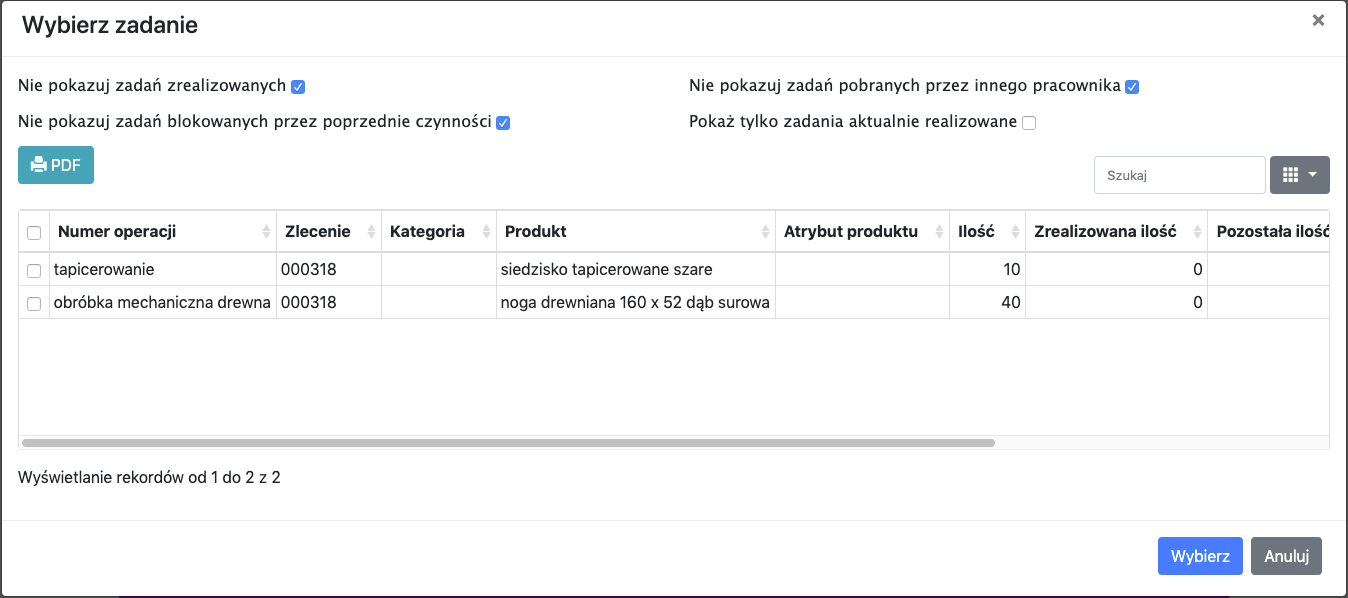
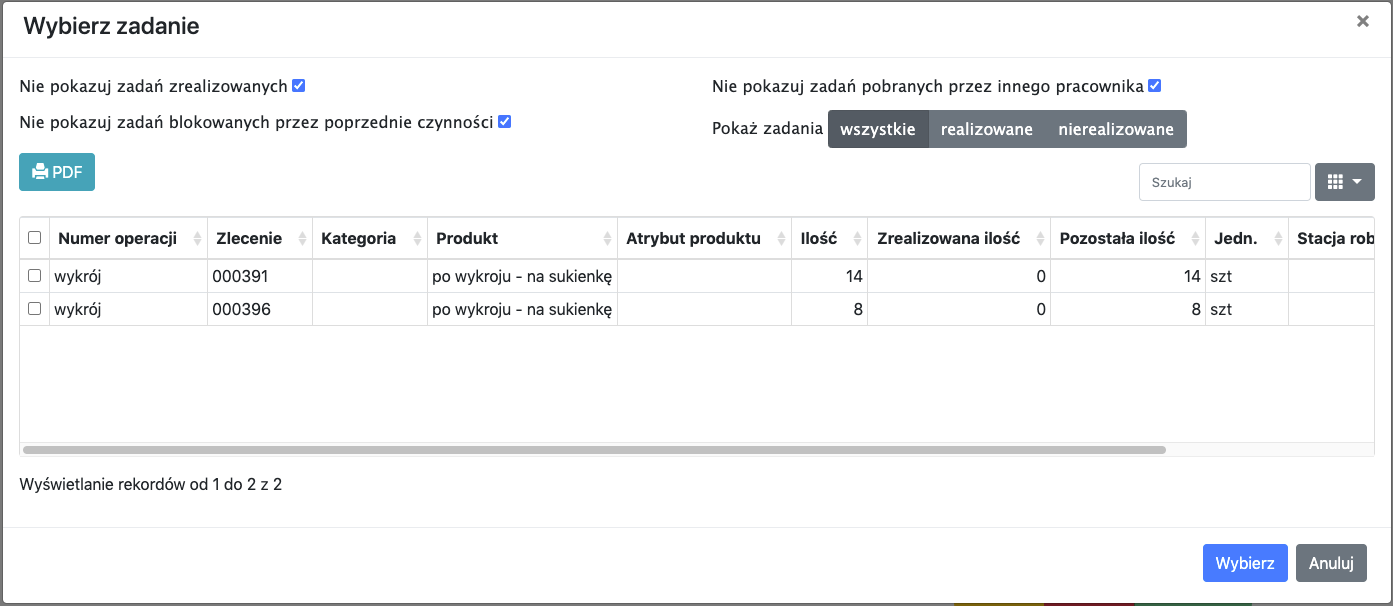
dashboard

diff --git a/pages/przykladowe-procesy/zlecenia-z-wykorzystaniem-dashboardu.md b/pages/przykladowe-procesy/zlecenia-z-wykorzystaniem-dashboardu.md
@@ -1,0 +1,128 @@
+---
+title: "Zarządzanie zleceniami produkcyjnymi z wykorzystaniem dashboardu"
+permalink: zlecenia-z-wykorzystaniem-dashboardu.html 
+---
+
+Stworzyliśmy dashboard po to, by łatwiej było zaprzyjaźnić się z qcadoo. Po to, by móc szybko zacząć pracę, bez konieczności przeczytania całej dokumentacji i wielogodzinnego definiowania danych początkowych. Dzięki dashboardowi możesz w pół godziny po pierwszym zalogowaniu się zacząć prawdziwą pracę w qcadoo. Nie wierzysz? Po przeczytaniu tego rozdziału dokumentacji - zmienisz zdanie.
+
+Pola Dobroń prowadzi firmę Polanka. Zajmuje się szyciem ubrań. Chciałaby ewidencjonować to co zostało wyprodukowane wraz z materiałami, które w procesie produkcyjnym zużyto. Zależy jej na ustaleniu kosztów materiałowych produkcji.
+
+Zaczyna pracę w qcadoo. Loguje się po raz pierwszy i widzi:
+
+{% include lightbox.html file="zleceniaZDashboarduStart.png" alt="Dashboard - widok po pierwszym zalogowaniu" caption="Dashboard - widok po pierwszym zalogowaniu" %}
+
+Od czego zacząć? Od szybkiej konfiguracji. Nie potrzeba wiele:
+
+1. <span style="color:grey">zdefiniowanie magazynów</span> --> wchodzi do **Magazyn > Magazyny** i wprowadza dwa: osobny dla składowania surowców, osobny dla wyrobów gotowych:
+
+{% include lightbox.html file="zleceniaZDashboarduMagazyny.png" alt="Zdefiniowane magazyny" caption="Zdefiniowane magazyny" %}
+
+{:start="2"}
+2. <span style="color:grey">zdefiniowanie operacji</span> (wystarczy jedna ogólna czynność - nie na planowaniu każdej operacji zależy Poli, zatem wystarczy zlecenie zbiorczo raportowane z jedną operacją w drzewie technologii) --> wchodzi do **Technologie > Operacje** i wprowadza operację: produkcja (podaje tylko numer i nazwę, resztę danych pozostawia niewypełnione):
+
+{% include lightbox.html file="zleceniaZDashboarduOperacja.png" alt="Zdefiniowana operacja" caption="Zdefiniowana operacja" %}
+
+{:start="3"}
+3. <span style="color:grey">ustawienie parametrów dashboardu</span> --> wchodzi do **Administracja > Parametry > Dashboard** i ustawia zdefiniowane w krokach poprzednich magazyny i operację:
+
+{% include lightbox.html file="zleceniaZDashboarduParametryDashboardu.png" alt="Ustawione parametry dashboardu" caption="Ustawione parametry dashboardu" %}
+
+<span style="color:red">W zasadzie z wymaganych danych początkowych to byłoby wszystko</span>. Pola wie natomiast, że będzie chciała rejestrować produkcję poprzez terminal i przyjmować dostawy, zatem definiuje jeszcze dwie rzeczy:
+
+{:start="4"}
+4. <span style="color:grey">zdefiniowanie pracownika</span> - Pola pracuje sama, więc wprowadza tylko swoje dane. Wchodzi w **Pracownicy > Pracownicy** i dodaje:
+
+{% include lightbox.html file="zleceniaZDashboarduPracownik.png" alt="Zdefiniowany pracownik" caption="Zdefiniowany pracownik" %}
+
+i przypisuje go do swojego użytkownika (to jest możliwe dzięki temu, że Pola korzysta z użytkownika o uprawnieniach Admina). W tym celu wchodzi w **Administracja > Użytkownicy**, wchodzi w szczegóły swojego użytkownika, przechodzi do zakładki _Pracownik_ i wybiera właściwego z listy:
+
+{% include lightbox.html file="zleceniaZDashboarduPracownikUzytkownik.png" alt="Przypisanie pracownika do użytkownika" caption="Przypisanie pracownika do użytkownika" %}
+
+{% include callout.html content="Do terminala loguje się pracownik, a nie użytkownik. Dzięki temu ograniczamy konieczne do wykupienia licencje" type="warning" %}
+
+{:start="5"}
+5. **zdefiniowanie dostawców** - aby można było ewidencjonować w qcadoo dostawy (i przyjmować dzięki nim surowce na stan) konieczne jest wprowadzenie listy firm, z którymi współpracujemy. Pola wprowadza na początek jednego - z którym współpracuje najczęściej. Wchodzi w tym celu w **Podstawowe > Firmy** i dodaje następujące dane:
+
+{% include lightbox.html file="zleceniaZDashboarduFirmy.png" alt="Zdefiniowany dostawca" caption="Zdefiniowany dostawca" %}
+
+Parametry ustawione. Czas rozpocząć zarządzanie produkcją!
+
+Pola przechodzi do dashboardu (wybierając {% include inline_image.html file="przyciskQcadoo.png" alt="Przycisk qcadoo" %} **qcadoo** z lewej strony okna) i klika przycisk {% include inline_image.html file="przyciskDodajZlecenie.png" alt="Przycisk Dodaj zlecenie" %} **Dodaj zlecenie**:
+
+{% include lightbox.html file="zleceniaZDashboarduKrok1.png" alt="Dodawanie zlecenia z dashboardu - krok 1." caption="Dodawanie zlecenia z dashboardu - krok 1." %}
+
+Jako, że nie ma zdefiniowanego żadnego produktu, klika przycisk {% include inline_image.html file="przyciskZdefiniujNowyProdukt.png" alt="Przycisk Dodaj produkt" %} **Zdefiniuj nowy produkt** i wprowdza pierwszy produkt, który chciałaby zlecić:
+
+{% include lightbox.html file="zleceniaZDashboarduNowyWyrob.png" alt="Dodawanie zlecenia z dashboardu - definiowanie nowego wyrobu" caption="Dodawanie zlecenia z dashboardu - definiowanie nowego wyrobu" %}
+
+Po kliknięciu przycisku {% include inline_image.html file="przyciskZapiszDashboard.png" alt="Przycisk zapisz" %} **Zapisz** uzupełnia ilość do wyprodukowania. Mogłaby też zostawić dodatkowe informacje w polu Opis - ale Pola nie ma takiej potrzeby:
+
+{% include lightbox.html file="zleceniaZDashboarduKrok1Reszta.png" alt="Dodawanie zlecenia z dashboardu - uzupełnienie niezbędnych danych w kroku 1." caption="Dodawanie zlecenia z dashboardu - uzupełnienie niezbędnych danych w kroku 1." %}
+
+Przechodzi do kolejnego kroku, klikając przycisk {% include inline_image.html file="przyciskDalejDashboard.png" alt="Przycisk Dalej" %} **Dalej**. Czas określić gdzie i kiedy ma być realizowana produkcja. qcadoo podpowiedziało zarówno linię produkcyjną jak i zakres dat:
+
+{% include lightbox.html file="zleceniaZDashboarduKrok2.png" alt="Dodawanie zlecenia z dashboardu - krok 2." caption="Dodawanie zlecenia z dashboardu - krok 2." %}
+
+{% include callout.html content="Linia produkcyjna rozumiana jest jako miejsce wykonania danego zlecenia. Jeśli chcesz wprowadzić ich więcej i przypisać to zlecenie do innej linii - kliknij przycisk **Dodaj linię produkcyjną** i ją zdefiniuj." type="warning" %}
+
+Pola zmienia datę zakończenia na jutrzejszą i przechodzi Dalej. Krok 3. to określenie z jakich surowców produkcja jest wykonywana. Pola klika {% include inline_image.html file="przyciskDodajSurowiec.png" alt="Przycisk Dodaj surowiec" %} **Dodaj surowiec** i przycisk {% include inline_image.html file="przyciskDodajDashboard.png" alt="Przycisk Plus" %} **Plus** w wierszu tabeli. Chce zdefiniować pierwszy z potrzebnych materiałów:
+
+{% include lightbox.html file="zleceniaZDashboarduKrok3.png" alt="Dodawanie zlecenia z dashboardu - krok 3." caption="Dodawanie zlecenia z dashboardu - krok 3." %}
+
+I tak postępuje dla wszystkich wykrzystywanych produktów, tworząc kompletną listę materiałów:
+
+{% include lightbox.html file="zleceniaZDashboarduKrok3Lista.png" alt="Dodawanie zlecenia z dashboardu - cała lista surowców definiowanych w kroku 3." caption="Dodawanie zlecenia z dashboardu - cała lista surowców definiowanych w kroku 3." %}
+
+Pola przechodzi {% include inline_image.html file="przyciskDalejDashboard.png" alt="Przycisk Dalej" %} **Dalej** i w ostatnim kroku upewnia się, czy wszystko wprowadziła jak należy. Nie pomyliła się, nie ma potrzeby wracać do poprzednich kroków, zatem klika {% include inline_image.html file="przyciskZapiszIAkceptuj.png" alt="Przycisk Zapisz i akceptuj" %} **Zapisz i akceptuj**. 
+
+{% include callout.html content="Wraz ze zleceniem utworzyła się też technologia produktu - zatem kolejne zlecanie do produkcji białej koszulki basic S będzie jeszcze szybsze." type="warning" %}
+
+Zlecenie się tworzy. Widoczne jest na dashboardzie.
+
+{% include lightbox.html file="zleceniaZDashboarduZlecenieOczekujace.png" alt="Utworzone zlecenie produkcyjne w sekcji Oczekujące" caption="Utworzone zlecenie produkcyjne w sekcji Oczekujące" %}
+
+Pola od razu chce produkować. Przeciąga zatem kafelek zlecenia do sekcji Realizowane:
+
+{% include lightbox.html file="zleceniaZDashboarduZlecenieRealizowane.png" alt="Utworzone zlecenie produkcyjne w sekcji Realizowane" caption="Utworzone zlecenie produkcyjne w sekcji Realizowane" %}
+
+I już teraz mogłaby zacząć raportować efekty wykonanej produkcji. Ale najpierw koniecznie trzeba przyjąć na stan potrzebne surowce. Pola wykorzysta do tego celu dostawy. Przechodzi do **Zaopatrzenie > Dostawy** i wprowadza dostawę podając w nagłówku informację o: dostawcy, magazynie na jakim produkty będą składowane oraz terminie dostawy:
+
+{% include lightbox.html file="zleceniaZDashboarduDostawaGlowna.png" alt="Nagłówek dostawy" caption="Nagłówek dostawy" %}
+
+{% include callout.html content="Dostępny stan magazynowy potrzebny jest do tego, by móc zaakceptować rejestrację produkcji. To wtedy tworzą się dokumenty RW. Jeśli dopiero testujesz qcadoo i nie chcesz zajść aż na sam koniec ścieżki - nie musisz robić tego kroku." type="warning" %}
+
+W zakładce Zamówione produkty dodaje wszystkie surowce, które zamówiła u tego dostawcy:
+
+{% include lightbox.html file="zleceniaZDashboarduDostawaZamowioneProdukty.png" alt="Zamówione produkty w dostawie" caption="Zamówione produkty w dostawie" %}
+
+I ją potwierdza, klikając {% include inline_image.html file="acceptIcon24.png" alt="Przycisk akceptuj" %} **Potwierdź**. Dostawa ta w rzeczywistości już została dostarczona, zatem Pola od razu przyjmuje produkty na stan klikając przycisk "Skopiuj produkty zamawiane do odebranych" {% include inline_image.html file="copyIcon24.png" alt="Przycisk Kopiuj" %} **Z ilością i ceną**:
+
+{% include lightbox.html file="zleceniaZDashboarduDostawaDostarczoneProdukty.png" alt="Dostarczone produkty w dostawie" caption="Dostarczone produkty w dostawie" %}
+
+Jako, że dostawca nie popełnił błędu i przysłał wszystko to co zostało zamówione, Pola nic nie poprawia i obiera dostawę klikając {% include inline_image.html file="acceptIcon24.png" alt="Przycisk akceptuj" %} **Odbierz**. W efekcie - na magazyn zostały przyjęte zasoby dokumentem PZ:
+
+{% include lightbox.html file="zleceniaZDashboarduZasoby.png" alt="Przyjęte na magazyn zasoby" caption="Przyjęte na magazyn zasoby" %}
+
+Stan magazynowy zapewniony. Pola wyprodukowała całą planowaną ilość i chciałaby zaraportować to co zużyła i to co zostało wytworzone. Wraca zatem na dashboard i kafelku zlecenia klika przycisk {% include inline_image.html file="przyciskPokazTerminal.png" alt="Przycisk Pokaż terminal" %} **Pokaż terminal** 
+
+{% include lightbox.html file="zleceniaZDashboarduTerminal.png" alt="Terminal rejestracji produkcji" caption="Terminal rejestracji produkcji" %}
+
+Podaje jaką ilość wyprodukowała (co powoduje wyliczenie ilości zużywanych produktów - na wszelki wypadek weryfikuje dane w zakładce Produkty wejściowe) i potwierdza przyciskiem {% include inline_image.html file="przyciskPotwierdzTerminal.png" alt="Przycisk Potwierdź" %} **Potwierdź**. Następnie przechodzi do **Rejestracja > Rejestracja produkcji** i akceptuje utworzony meldunek.
+
+{% include callout.html content="W parametrach terminala możesz ustawić, aby meldunek akceptował się od razu po potwierdzaniu z terminala." type="warning" %}
+
+I pora na ostatni krok, wieńczący proces w qcadoo. Pola wraca do dashboardu i przesuwa zlecenie do sekcji Gotowe.
+
+{% include lightbox.html file="zleceniaZDashboarduKoniec.png" alt="Dashboard - widok po ukończeniu procesu" caption="Dashboard - widok po ukończeniu procesu" %}
+
+Zlecenie zostało ukończone, dane z produkcji zarejestrowane, dokumenty magazynowe wystawione. Ile czasu zajęło Ci przejście całego procesu?
+
+--- 
+
+<span style="color:red">Na koniec ważna informacja!</span>
+<br/>
+<span style="color:red">Opisany przykład to podejście minimalistyczne. Pamiętaj, że qcadoo potrafi dużo więcej.</span>
+
+
+
+

diff --git a/pages/dashboard/dashboard-dodawanie-zlecen.md b/pages/dashboard/dashboard-dodawanie-zlecen.md
@@ -1,0 +1,66 @@
+---
+title: "Dodawanie zleceń z dashboardu"
+permalink: dashboard-dodawanie-zlecen.html 
+---
+
+Dodawanie zlecenia produkcyjnego z poziomu dashboardu jest dedykowane dla użytkowników z nieskomplikowaną produkcją. Jeśli interesuje Cię zlecenie jako całość, bez wyróżniania poszczególnych czynności do wykonania i nie potrzebujesz mechanizmów wyliczających czas trwania zlecenia, możesz w ten sposób tworzyć plany produkcyjne. 
+
+Tworząc ten sposób pracy myśleliśmy też o użytkownikach rozpoczynających przygotę z qcadoo. Chcesz zacząć szybko rejestrować produkcję i nie bardzo wiesz od czego zacząć? Docelowo planujesz rozpoznać dostępne w qcadoo funkcjonalności i pewnie z nich korzystać w pełni, ale na początek wystarczy, że zlecenie zostanie utworzone i pracownik będzie wiedział co zrobić i do czego zaraportować produkcję? Zacznij od dashboardu. Nie będziesz musiał błądzić po menu - w kilku krokach powiemy Ci w jaki sposób zaplanować produkcję.
+<br/>
+<br/>
+
+Jakie są atuty tworzenia zlecenia z poziomu dashboardu?
+1. **przejrzystość** - przechodzisz ekran po ekranie i wypełniasz wszystkie dane, które pozwalają na istnienie zlecenia.
+2. **kompleksowość** - nie musisz najpierw tworzyć produktów. Później technologii. I dopiero później w innym miejscu - zlecenia produkcyjnego. Możesz wszystko na raz stworzyć przechodząc tych kilka kroków, o których poczytasz niżej.
+3. **szybkość** - nie tracisz czasu na definiowanie danych w kilku miejscach w qcadoo. Możesz dodać zlecenie w kilkanaście sekund z poziomu dashboardu.
+
+Zanim zaczniesz dodawać z dashboardu zlecenie produkcyjne razem z technologią ustaw następujące parametry:
+- [parametry dashboardu](/parametry-dashboard) - wskaż operację, która ma być podpięta do drzewa technologicznego oraz magazyny, które będą uczestniczyły w procesie (musimy wiedzieć skąd chcesz pobierać surowce do produkcji i gdzie chcesz składować wytworzone wyroby)
+- [parametry technologii](/parametry-technologia) - zaznacz _Uzupełniaj magazyny dla produktów w przepływie podczas sprawdzania technologii_. Dzięki temu technologia będzie mogła być zaakceptowana z automatu.
+
+Teraz możesz zacząć! Kliknij przycisk: {% include inline_image.html file="przyciskDodajZlecenie.png" alt="Przycisk Dodaj zlecenie" %} **Dodaj zlecenie**
+
+{% include lightbox.html file="dashboardDodajZlecenie1.png" alt="Formularz dodawania zlecenia produkcyjnego" caption="Pierwszy krok dodawania zlecenia produkcyjnego z dashboardu - co chcesz produkować?" %}
+
+Podaj:
+- **produkt**, który chcesz wyprodukować. Nie znalazłeś go na liście? Kliknij przycisk {% include inline_image.html file="przyciskZdefiniujNowyProdukt.png" alt="Przycisk Dodaj produkt" %} **Zdefiniuj nowy produkt** i podaj jego numer, nazwę i jednostkę
+- **ilość**, którą należy wyprodukować.
+<br/>
+<br/>
+
+Możesz ponadto zamieścić dodatkowe informacje uszczegóławiające zlecenie w polu Opis. Jeśli masz zdefiniowaną technologię wskaż ją (co więcej - jeśli istnieje technologia domyślna, to się podpowie i nie musisz o tym pamiętać). A jeśli nie - przejdź dalej klikając w przycisk {% include inline_image.html file="przyciskDalejDashboard.png" alt="Przycisk Dalej" %} **Dalej**
+
+{% include callout.html content="Jeśli raz dodasz zlecenie produkcyjne na dany produkt z dashboardu, to przy kolejnym zlecaniu technologia będzie już istniała, podpowie się na ekranie 1. i kolejne dane zostaną z niej uzupełnione. A zatem - będzie jeszcze szybciej!" type="warning" %}
+
+{% include lightbox.html file="dashboardDodajZlecenie2.png" alt="Formularz dodawania zlecenia produkcyjnego" caption="Drugi krok dodawania zlecenia produkcyjnego z dashboardu - gdzie i kiedy chcesz produkować?" %}
+
+Uzupełnij:
+- **linię produkcyjną** - podpowie się z parametrów. Jeśli to zlecenie będziesz realizować w innym miejscu - zmień na właściwą. Jeśli nie znalazłeś na liście tej odpowiedniej, kliknij w przycisk {% include inline_image.html file="przyciskDodajLinieProdukcyjna.png" alt="Przycisk Dodaj linię produkcyjną" %} **Dodaj linię produkcyjną** i podaj numer i nazwę linii, na której chcesz produkować,
+- **datę rozpoczęcia zlecenia**,
+- **datę zakończenia zlecenia**.
+<br/>
+<br/>
+
+I przejdź dalej znowu klikając w przycisk {% include inline_image.html file="przyciskDalejDashboard.png" alt="Przycisk Dalej" %} **Dalej**.
+
+{% include callout.html content="Jeśli chcesz zmodyfikować dane podane wcześciej użyj przycisk Wstecz by powrócić do poprzednich kroków." type="warning" %}
+
+Kolejny krok to określenie z czego będziesz produkować. Zacznij od przycisku {% include inline_image.html file="przyciskDodajSurowiec.png" alt="Przycisk Dodaj surowiec" %} **Dodaj surowiec**. Do tabeli zostanie dodany wiersz, w którym musisz wypełnić następujące dane:
+- **surowiec** - na dwa sposoby: jeśli dodałeś go wcześniej do qcadoo, wybierz z listy używając przycisku {% include inline_image.html file="przyciskLupkaDashboard.png" alt="Przycisk Lupka" %} **Szukaj**. Jeśli natomiast nie znalazłeś interesującego Cię produktu dodaj go używając przycisku {% include inline_image.html file="przyciskDodajDashboard.png" alt="Przycisk Plus" %} **Dodaj** i nadając mu numer, nazwę i jednostkę
+- **ilość zużywana** - czyli podaj ile surowca musisz użyć aby wyprodukować zleconą ilość wyrobu
+- **ilość na jednostkę** - podpowiemy tutaj ile jednostek surowca trzeba zużyć aby wytworzyć 1 jednostkę wyboru. Po co? Wraz ze zleceniem utworzymy technologię. Ale technologia będzie utworzona na 1 jednostkę wyrobu. Dzięki temu będziesz mógł zlecać ten produkt w dowolnych ilościach w późniejszym terminie
+
+W taki sam sposób podaj pozostałe produkty, które w procesie produkcyjnym będą zużywane. Jeśli się pomyliłeś - zaznacz wiersz z surowcem (kwadrat z lewej strony tabeli) i usuń go, wykorzystując przycisk {% include inline_image.html file="przyciskUsunSurowiec.png" alt="Przycisk Usuń surowiec" %} **Usuń surowiec**
+
+{% include callout.html content="Jeśli w pierwszym kroku wypełniłeś technologię, to tabela ta będzie wypełniona. Aby zmodyfikować jej zawartość usuń wiersz i dodaj kolejny." type="warning" %}
+
+Po kliknięciu {% include inline_image.html file="przyciskDalejDashboard.png" alt="Przycisk Dalej" %} **Dalej** przejdziesz do ostatniego kroku: Podsumowania wprowadzonych do zlecenia danych. 
+
+{% include lightbox.html file="dashboardDodajZlecenie4.png" alt="Formularz dodawania zlecenia produkcyjnego" caption="Czwarty krok dodawania zlecenia produkcyjnego z dashboardu - podsumowanie danych" %}
+
+Sprawdź, czy wszystko jest tak jak należy (jeśli nie: wróć do odpowiednich ekranów i popraw dane). I potwierdź utworzenie zlecenia klikajac przycisk {% include inline_image.html file="przyciskZapiszIAkceptuj.png" alt="Przycisk Zapisz i akceptuj" %} **Zapisz i akceptuj**. 
+
+I gotowe. Zlecenie utworzone - pojawi się ono w obszarze zleceń oczekujących na dashboardzie, więc możesz od razu przeciągnąć je do obszaru Realizowane i przejść do terminala aby zarejestrować produkcję.
+
+<span style="color:red"> Ważne jest też to, że przy okazji dodawania zlecenia wprowadzasz produkty i technologie, które przy kolejnym zlecaniu będą już istniały i będziesz mógł je wykorzystać, zatem tworzenie zlecenia będzie jeszcze szybsze.</span>
+

diff --git a/pages/rejestracja-produkcji/terminal.md b/pages/rejestracja-produkcji/terminal.md
@@ -67,7 +67,10 @@ Domyślnie w liście zadań nie pojawiają się te, których wykonać nie można
 
 W oknie wyboru możesz również zdecydować, czy chcesz widzieć zadania pobrane do realizacji przez innego pracownika - służy do tego parametr: **Nie pokazuj zadań pobranych przez innego pracownika**. Wartość domyślną parametru możesz ustawić w parametrach terminala.
 
-Jeśli pracujesz w terminalu w systemie START-STOP na pewno będziesz korzystać z parametru **Pokaż tylko zadania aktualnie realizowane** - zaznacz go, a lista zadań zostanie ograniczona do tych, dla których praca została wystartowana (czyli prace aktualnie trwają).
+Jeśli pracujesz w terminalu w systemie START-STOP na pewno będziesz korzystać z filtru: **Pokaż zadania**. Ustaw:
+- **realizowane**, a lista zadań zostanie ograniczona do tych, dla których praca została wystartowana (czyli prace aktualnie trwają),
+- **nierealizowane**, a lista zadań zostanie ograniczona do tych, dla których nie ma zarejestrowanych aktualnie niezakończonych prac (czyli nie kliknięto dla nich START, bez klikania STOP),
+- **wszystkie**, a będzie pokazana pełna lista zadań.
 
 Listę zadań możesz wydrukować do **PDF**. Przydatna funkcja w sytuacji, gdy nie tak łatwo zapamiętać wszystkie parametry wykonywanych czynności. Jeśli pracownik będzie miał wydrukowaną listę, zawsze będzie mógł zerknąć, jak produkt ma wyglądać. Będzie mógł też notować na bieżąco wszystkie informacje, które będzie później do terminala wprowadzał. Aby wydrukować listę, zaznacz te zadania, które mają się na niej pojawić i kliknij przycisk PDF. Za dużo kolumn? Ukryj je w tabeli (korzystając z przycisku {% include inline_image.html file="przyciskUkryjKolumnyTerminal.png" alt="Przycisk Kolumny" %}), a na wydruku też się nie pojawią.
 

diff --git a/pages/magazyn/miejsca-skladowania.md b/pages/magazyn/miejsca-skladowania.md
@@ -63,7 +63,7 @@ Funkcję można wywoływać wielokrotnie, tworząc tym samym całą siatkę miej
 
 ## Import miejsc składowania z pliku Excel
 
-Jeśli masz przypisane na stałe produkty do miejsc składowania to funkcja importu miejsc składowania z pliku Excel jest dla Ciebie. 
+Jeśli masz przypisane na stałe produkty do miejsc składowania to funkcja importu miejsc składowania z pliku Excel (format .xls) jest dla Ciebie. 
 
 {% include lightbox.html file="magazynMiejsceSkladowaniaImport.png" alt="Import miejsc składowania" caption="Import miejsc składowania" class="float-right" %}
 

diff --git a/pages/introduction/introduction.md b/pages/introduction/introduction.md
@@ -21,3 +21,8 @@ Zachęcamy do poznania pełnej funkcjonalności systemu, dlatego ten tutorial ba
 Zaczynamy?
   
 **Krok 1/11: [Wprowadź surowce, półprodukty i wyroby](/krok-1-produkty-1)**
+
+<br/>
+<br/>
+
+{% include callout.html content="Jest też ścieżka alternatywna, szybka, minimalistyczna - zerknij do [tego opisu](/zlecenia-z-wykorzystaniem-dashboardu)." type="warning" %}
